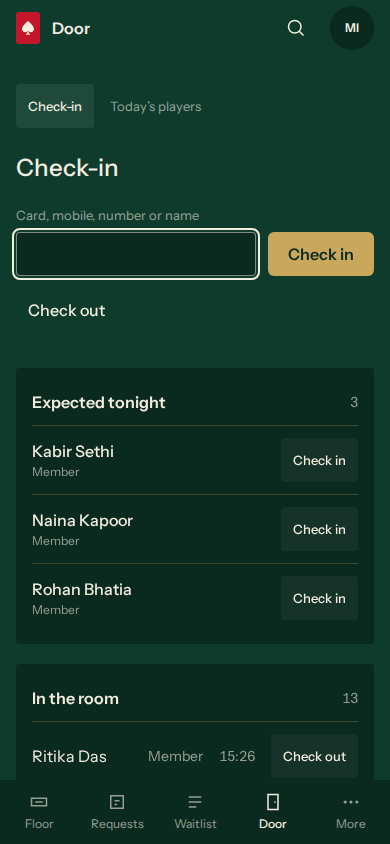
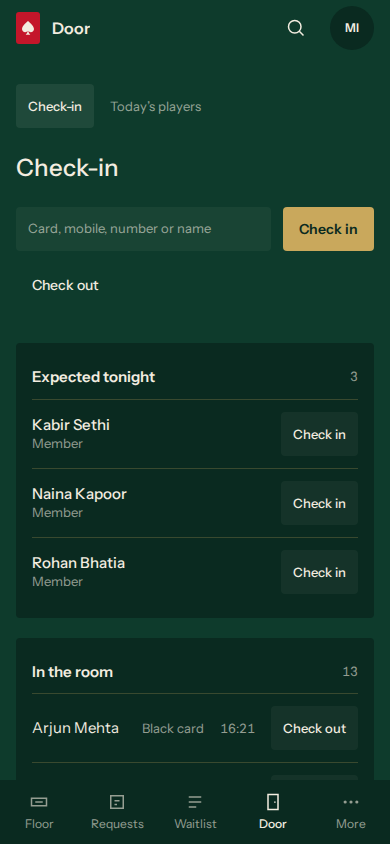
fix(kyc-review): the queue is a PickList; filled door and reason fields
KYC review's queue uses PickList, as Host queue and the website's pages
do, in place of its own list. The door's one field and the KYC reason
are the console's filled field on one centre line with their buttons,
and the door's panels use the console's card heading and row text.

diff --git a/apps/console/src/features/check-in/components/DoorField.tsx b/apps/console/src/features/check-in/components/DoorField.tsx
@@ -1,6 +1,6 @@
 import type { MemberRow } from '@rivr/db';
 import { t } from '@rivr/i18n';
-import { Box, Button, ErrorMessage, Inline, Input, Stack, StatusMessage, Text, useIsWide } from '@rivr/ui';
+import { Button, ErrorMessage, Inline, Input, Stack, StatusMessage, Text, useIsWide } from '@rivr/ui';
 import { useRef } from 'react';
 import { CHECK_IN_FAILURE_COPY, checkOutRefusalText } from './checkInCopy.ts';
 import { useDoorField, type DoorAction, type DoorOutcome } from './useDoorField.ts';
@@ -40,8 +40,8 @@ function Matches({ matches, action, onChoose }: MatchesProps) {
         {matches.map((row) => (
           <Inline key={row.memberId} gap={4} justify="between">
             <Stack gap={1}>
-              <Text weight="medium">{row.fullName}</Text>
-              <Text variant="small" tone="muted">{t('console.checkIn.memberMeta', { number: row.memberNumber, tier: row.tierName })}</Text>
+              <Text variant="row" weight="medium">{row.fullName}</Text>
+              <Text variant="secondary" tone="muted">{t('console.checkIn.memberMeta', { number: row.memberNumber, tier: row.tierName })}</Text>
             </Stack>
             <Button variant="subtle" size="small" aria-label={t(named, { name: row.fullName })} onClick={() => onChoose(row.memberId)}>{label}</Button>
           </Inline>
@@ -64,15 +64,14 @@ export function DoorField({ venueId }: { venueId: string }) {
   const several = door.outcome?.kind === 'several' ? door.outcome : null;
   // Check out is the field's second action: beside Check in from 768 px, under the field on a phone, so the field keeps its width.
   const isWide = useIsWide('medium');
-  const checkOut = <Button variant="text" onClick={() => press('out')}>{t('console.checkIn.checkOut')}</Button>;
+  const checkOut = <Button variant="text" size="compact" onClick={() => press('out')}>{t('console.checkIn.checkOut')}</Button>;
   return (
     <Stack gap={3}>
-      <Inline gap={3} align="end">
-        <Box grow>
-          <Input ref={field} label={t('console.checkIn.field')} value={door.text} autoComplete="off" autoFocus
-            onChange={(event) => door.type(event.target.value)} onKeyDown={(event) => { if (event.key === 'Enter') press('in'); }} />
-        </Box>
-        <Button variant="primary" isLoading={door.isBusy} onClick={() => press('in')}>{t('console.checkIn.checkIn')}</Button>
+      {/* The console's filled field beside its button (console v3), its name inside it until something is typed. */}
+      <Inline gap={3}>
+        <Input ref={field} variant="subtle" label={t('console.checkIn.field')} value={door.text} autoComplete="off" autoFocus
+          onChange={(event) => door.type(event.target.value)} onKeyDown={(event) => { if (event.key === 'Enter') press('in'); }} />
+        <Button variant="primary" size="compact" isLoading={door.isBusy} onClick={() => press('in')}>{t('console.checkIn.checkIn')}</Button>
         {isWide ? checkOut : null}
       </Inline>
       {isWide ? null : <Inline>{checkOut}</Inline>}

diff --git a/apps/console/src/features/check-in/components/DoorList.tsx b/apps/console/src/features/check-in/components/DoorList.tsx
@@ -22,10 +22,10 @@ function InRoomRow({ member, isBusy, onPress }: RowProps) {
   return (
     <Inline gap={3} justify="between">
       {/* The name gives way first, cut with an ellipsis, so the row stays one line on a phone. */}
-      <Inline grow><Text truncate>{member.fullName}</Text></Inline>
+      <Inline grow><Text variant="row" truncate>{member.fullName}</Text></Inline>
       <Inline gap={4}>
-        <Text variant="small" tone="muted">{member.tierName}</Text>
-        <Text variant="small" tone="muted">{formatTime(new Date(member.since))}</Text>
+        <Text variant="secondary" tone="muted">{member.tierName}</Text>
+        <Text variant="secondary" tone="muted">{formatTime(new Date(member.since))}</Text>
         <Button variant="subtle" size="small" isDisabled={isBusy} aria-label={t('console.checkIn.checkOutMember', { name: member.fullName })}
           onClick={onPress}>{t('console.checkIn.checkOut')}</Button>
       </Inline>
@@ -38,8 +38,8 @@ function ExpectedRow({ member, isBusy, onPress }: RowProps) {
   return (
     <Inline gap={3} justify="between">
       <Stack gap={0}>
-        <Text weight="medium">{member.fullName}</Text>
-        <Text variant="caption" tone="muted">{member.tierName}</Text>
+        <Text variant="row" weight="medium">{member.fullName}</Text>
+        <Text variant="secondary" tone="muted">{member.tierName}</Text>
       </Stack>
       <Button variant="subtle" size="small" isDisabled={isBusy} aria-label={t('console.checkIn.checkInMember', { name: member.fullName })}
         onClick={onPress}>{t('console.checkIn.checkIn')}</Button>
@@ -77,11 +77,11 @@ export function DoorList({ venueId, title, members, emptyText }: DoorListProps) 
     <Box as="section" aria-labelledby={headingId} surface="raised" radius="md" paddingX={4} paddingY={3}>
       <Stack gap={0} divided>
         <Inline gap={3} justify="between">
-          <Heading level={2} variant="subsection" id={headingId}>{title}</Heading>
-          <Text variant="small" tone="muted">{formatNumber(members.length)}</Text>
+          <Heading level={2} variant="card" id={headingId}>{title}</Heading>
+          <Text variant="secondary" tone="muted">{formatNumber(members.length)}</Text>
         </Inline>
         {actions.failure === null ? null : <ErrorMessage>{actions.failure}</ErrorMessage>}
-        {members.length === 0 ? <Text variant="small" tone="muted">{emptyText}</Text> : null}
+        {members.length === 0 ? <Text variant="secondary" tone="muted">{emptyText}</Text> : null}
         {members.map((member) => member.isInRoom
           ? <InRoomRow key={member.memberId} member={member} isBusy={actions.isBusy} onPress={() => void actions.release(member.memberId)} />
           : <ExpectedRow key={member.memberId} member={member} isBusy={actions.isBusy} onPress={() => void actions.admit(member.memberId)} />)}

diff --git a/apps/console/src/features/kyc-review/components/ReviewForm.tsx b/apps/console/src/features/kyc-review/components/ReviewForm.tsx
@@ -2,7 +2,7 @@ import { zodResolver } from '@hookform/resolvers/zod';
 import { kycReviewSchema } from '@rivr/contracts';
 import { useKycReviewActions, type KycReviewFailure } from '@rivr/db';
 import { t } from '@rivr/i18n';
-import { Button, ErrorMessage, Inline, Input, Stack } from '@rivr/ui';
+import { Button, ErrorMessage, Inline, Input, Stack, Text } from '@rivr/ui';
 import { useState } from 'react';
 import { useForm } from 'react-hook-form';
 import type { z } from 'zod';
@@ -45,8 +45,11 @@ export function ReviewForm({ venueId, memberId, fullName, needsDateOfBirth, need
     <Stack gap={3}>
       {needsDateOfBirth ? <Input {...dateOfBirth} type="date" label={t('console.kycReview.dateOfBirthFor', { name: fullName })} /> : null}
       {needsPan ? <Input {...pan} label={t('console.kycReview.panFor', { name: fullName })} maxLength={10} autoComplete="off" /> : null}
-      <Input {...reason} label={t('console.kycReview.reasonFor', { name: fullName })} hint={t('console.kycReview.reasonHint')}
-        maxLength={500} autoComplete="off" />
+      {/* The console's filled field (console v3), its name inside it; the rule for the reason on the line above, as in the prototype. */}
+      <Stack gap={2}>
+        <Text variant="secondary" tone="muted">{t('console.kycReview.reasonHint')}</Text>
+        <Input {...reason} variant="subtle" label={t('console.kycReview.reasonFor', { name: fullName })} maxLength={500} autoComplete="off" />
+      </Stack>
       <Inline gap={3}>
         <Button variant="strong" size="compact" isLoading={review.isPending} onClick={decide(true)}>{t('console.kycReview.approve')}</Button>
         <Button variant="subtle" size="compact" isLoading={review.isPending} onClick={decide(false)}>{t('console.kycReview.reject')}</Button>

diff --git a/apps/console/src/features/kyc-review/components/KycReviewScreen.tsx b/apps/console/src/features/kyc-review/components/KycReviewScreen.tsx
@@ -1,12 +1,11 @@
 import { useKycReviewQueue, useStaffVenue, type KycCheck } from '@rivr/db';
 import { t } from '@rivr/i18n';
-import { Screen, SplitView, Stack, StaleNotice } from '@rivr/ui';
+import { PickList, Screen, SplitView, Stack, StaleNotice } from '@rivr/ui';
 import { useState } from 'react';
-import { checkGroups } from './checkText.ts';
+import { checkGroups, queueGroups } from './checkText.ts';
 import { InPersonSection } from './InPersonSection.tsx';
 import { InPersonSheet } from './InPersonSheet.tsx';
 import { KycCheckCard } from './KycCheckCard.tsx';
-import { KycQueueList } from './KycQueueList.tsx';
 
 /**
  * KYC review, for KYC reviewers (`kyc.review`) at the venue the console works in, with checks in person; and for hosts and
@@ -50,7 +49,8 @@ function ReviewQueue({ venueId, canReopen }: { venueId: string; canReopen: boole
         {queue.isError ? <StaleNotice since={new Date(queue.dataUpdatedAt)} onRetry={() => void queue.refetch()} /> : null}
         <SplitView layout="even" backLabel={t('console.kycReview.back')} onBack={() => setChosenId(null)}
           isChosen={open !== null && open.memberId === chosenId}
-          list={<KycQueueList checks={queue.data} chosenId={open?.memberId ?? null} onChoose={setChosenId} />}
+          list={<PickList label={t('console.kycReview.queue')} groups={queueGroups(queue.data)} current={open?.memberId ?? null}
+            onPick={setChosenId} emptyText={t('console.kycReview.empty')} />}
           detail={open === null ? null : (
             <KycCheckCard key={open.memberId} venueId={venueId} check={open} canReopen={canReopen} onDecided={() => setChosenId(open.memberId)} />
           )} />

diff --git a/apps/console/src/features/kyc-review/components/KycReviewScreen.test.tsx b/apps/console/src/features/kyc-review/components/KycReviewScreen.test.tsx
@@ -66,14 +66,17 @@ describe('KYC review (decision 0301)', () => {
     expect(await screen.findByText('Not in your role. Ask an admin.', {}, { timeout: 5000 })).toBeDefined();
   });
 
-  it('lists the checks by group with counts, and opens the first to review beside them', async () => {
+  it('lists the checks by group with counts, and opens the first to review beside them, marked', async () => {
     renderAs('admin', QUEUE);
     expect(await screen.findByRole('heading', { level: 2, name: 'Rohan Bhatia' }, { timeout: 5000 })).toBeDefined();
-    const toReview = screen.getByRole('region', { name: 'To review' });
-    expect(within(toReview).getByText('2')).toBeDefined();
-    expect(within(screen.getByRole('region', { name: 'Waiting on the member' })).getByRole('button', { name: /Puneet Agarwal/ })).toBeDefined();
+    const queue = screen.getByRole('region', { name: 'Checks' });
+    const toReview = within(queue).getByRole('list', { name: 'To review' });
+    expect(within(toReview).getAllByRole('listitem')).toHaveLength(2);
+    expect(within(toReview).getByRole('button', { name: /Rohan Bhatia/ }).getAttribute('aria-current')).toBe('true');
+    expect(within(within(queue).getByRole('list', { name: 'Waiting on the member' })).getByRole('button', { name: /Puneet Agarwal/ })).toBeDefined();
     fireEvent.click(within(toReview).getByRole('button', { name: /Naina Kapoor/ }));
     expect(screen.getByRole('heading', { level: 2, name: 'Naina Kapoor' })).toBeDefined();
+    expect(within(toReview).getByRole('button', { name: /Naina Kapoor/ }).getAttribute('aria-current')).toBe('true');
     expect(screen.getByText('ABCPN4444N')).toBeDefined();
   });
 

diff --git a/apps/console/src/features/kyc-review/components/InPersonSection.tsx b/apps/console/src/features/kyc-review/components/InPersonSection.tsx
@@ -71,9 +71,9 @@ function Candidates({ venueId, search, onChoose }: CandidatesProps) {
       {found.data.map((member) => (
         <Inline key={member.memberId} gap={4} align="center" justify="between">
           <Stack gap={1}>
-            <Text weight="medium">{member.fullName}</Text>
-            <Text variant="small" tone="muted">{t('console.kycInPerson.phoneEnding', { digits: member.phoneLast4 })}</Text>
-            {member.status === null ? null : <Text variant="small" tone="muted">{t('console.kycInPerson.startedOnApp')}</Text>}
+            <Text variant="row" weight="medium">{member.fullName}</Text>
+            <Text variant="secondary" tone="muted">{t('console.kycInPerson.phoneEnding', { digits: member.phoneLast4 })}</Text>
+            {member.status === null ? null : <Text variant="secondary" tone="muted">{t('console.kycInPerson.startedOnApp')}</Text>}
           </Stack>
           {/* One short word on a row's button (console v3), its full name read out, so it never wraps in the sheet. */}
           <Button variant="subtle" size="small" aria-label={t('console.kycInPerson.checkName', { name: member.fullName })} onClick={() => onChoose(member)}>

diff --git a/apps/console/src/features/kyc-review/components/checkText.ts b/apps/console/src/features/kyc-review/components/checkText.ts
@@ -104,6 +104,19 @@ export function checkGroups(checks: readonly KycCheck[]) {
   };
 }
 
+/** The queue as PickList groups (console v3): to review, waiting on the member and refused, each with its count; an empty one is left out. */
+export function queueGroups(checks: readonly KycCheck[]) {
+  const groups = checkGroups(checks);
+  const group = (label: string, list: readonly KycCheck[]) => ({
+    label, count: list.length, items: list.map((check) => ({ id: check.memberId, title: check.fullName, detail: queueLine(check) })),
+  });
+  return [
+    group(t('console.kycReview.waiting'), groups.toReview),
+    group(t('console.kycReview.onMember'), groups.onMember),
+    group(t('console.kycReview.refused'), groups.refused),
+  ];
+}
+
 /** Whether a super admin may reopen this check: a refused one done in person (#267), refused as a duplicate. */
 export function mayReopen(check: KycCheck, isSuperAdmin: boolean): boolean {
   // The database reopens only a duplicate PAN or Aadhaar refusal; under 18 or a reviewer's refusal stays (F1-13).

diff --git a/apps/console/src/features/kyc-review/components/KycCheckCard.tsx b/apps/console/src/features/kyc-review/components/KycCheckCard.tsx
@@ -11,8 +11,8 @@ function Details({ check }: { check: KycCheck }) {
     <Stack gap={0} divided>
       {checkDetails(check).map((detail) => (
         <Inline key={detail.label} gap={4} justify="between">
-          <Text variant="small" tone="muted">{detail.label}</Text>
-          <Text variant="small">{detail.value}</Text>
+          <Text variant="row" tone="muted">{detail.label}</Text>
+          <Text variant="row">{detail.value}</Text>
         </Inline>
       ))}
     </Stack>
@@ -44,7 +44,7 @@ export function KycCheckCard({ venueId, check, canReopen, onDecided }: KycCheckC
           <Stack gap={3} grow>
             <Stack gap={1}>
               <Heading level={2}>{check.fullName}</Heading>
-              <Text variant="small" tone="muted">{checkSince(check)}</Text>
+              <Text variant="secondary" tone="muted">{checkSince(check)}</Text>
             </Stack>
             {status === null ? null : <Text weight="medium">{status}</Text>}
             <Details check={check} />

diff --git a/packages/i18n/src/catalogue/en/kycReview.ts b/packages/i18n/src/catalogue/en/kycReview.ts
@@ -3,7 +3,8 @@ export const kycReview = {
   title: 'KYC review',
   notAllowed: 'Not in your role. Ask an admin.',
   empty: 'No checks waiting for review.',
-  /** The queue's groups down the left (console v3), each with its count. */
+  /** The queue down the left (console v3), read as its name; then its groups, each with its count. */
+  queue: 'Checks',
   waiting: 'To review',
   /** Checks that wait for the member, for a PAN: nothing for a reviewer to decide yet (C-06). */
   onMember: 'Waiting on the member',
